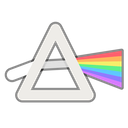
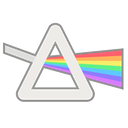
The stream window is titled "Beam", and wears the redrawn prism
The title was "<computer> - Beam", and through the tunnel the computer
is the host's PC name as Sunshine reports it ("DESKTOP-9HVR4QV") --
meaningless to the guest, and the other person's machine name on the
taskbar. It is now just "Beam".

beam.ico and res/beam.png are fresh byte-identical copies of Beam's
icon.ico and 128x128.png: the redrawn prism, a straight beam with the
spectrum starting inside it.

Changed region(s): [[0.0938, 0.1562, 0.9688, 0.8125], [0.25, 0.3125, 0.625, 0.7188], [0.0, 0.3125, 0.2812, 0.6562]]

diff --git a/app/streaming/session.cpp b/app/streaming/session.cpp
@@ -2065,8 +2065,10 @@ void Session::exec()
 #ifdef Q_OS_DARWIN
     std::string windowName = QString(m_Computer->name).toStdString();
 #else
-    // BEAM: window title
-    std::string windowName = QString(m_Computer->name + " - Beam").toStdString();
+    // BEAM: window title. Just "Beam" -- the computer name here is the *host's* PC name as Sunshine
+    // reports it (a "DESKTOP-9HVR4QV"), which means nothing to the guest and showed the other
+    // person's machine name on the taskbar.
+    std::string windowName = "Beam";
 #endif
 
     m_Window = SDL_CreateWindow(windowName.c_str(),

diff --git a/docs/patches.md b/docs/patches.md
@@ -94,7 +94,8 @@ Make it Beam's program rather than a renamed Moonlight.
   "modified Moonlight" notice moved to the copyright field (2026-10-01).
 - `app/main.cpp` — `setOrganizationName`, `setOrganizationDomain`, `setApplicationName`, and
   `setWindowIcon`.
-- `app/streaming/session.cpp` — the window title, now `<computer> - Beam`.
+- `app/streaming/session.cpp` — the window title, now just `Beam` (2026-10-06; it was
+  `<computer> - Beam`, and the computer was the *host's* PC name).
 
 **There are two icons, and only one of them is the exe’s.** `RC_ICONS` is what Explorer shows.
 The *window* icon is set separately by `setWindowIcon`, and it is what Task Manager shows beneath a
@@ -113,8 +114,8 @@ ships, and leaving both working is one less thing for a rebase to fight over.
 
 **Neither Beam icon is generated here.** Both are byte-identical copies from the Beam repo, which
 owns the artwork: `app/beam.ico` from `desktop/src-tauri/icons/icon.ico`, `app/res/beam.png` from
-`desktop/src-tauri/icons/128x128.png`. Refresh them by copying — last done 2026-10-01, for the
-seven-band prism. Do **not** rasterise `beam.ico` out
+`desktop/src-tauri/icons/128x128.png`. Refresh them by copying — last done 2026-10-06, for the
+redrawn prism (a straight beam, the spectrum starting inside it). Do **not** rasterise `beam.ico` out
 of `res/beam.png` — that PNG is 128×128 and the committed `.ico` carries a 256×256 entry, so
 “regenerating” it would quietly downgrade the icon Windows shows at the largest size.
 `generate-ico.sh` says all of this in its header now; it used to say nothing and produce
